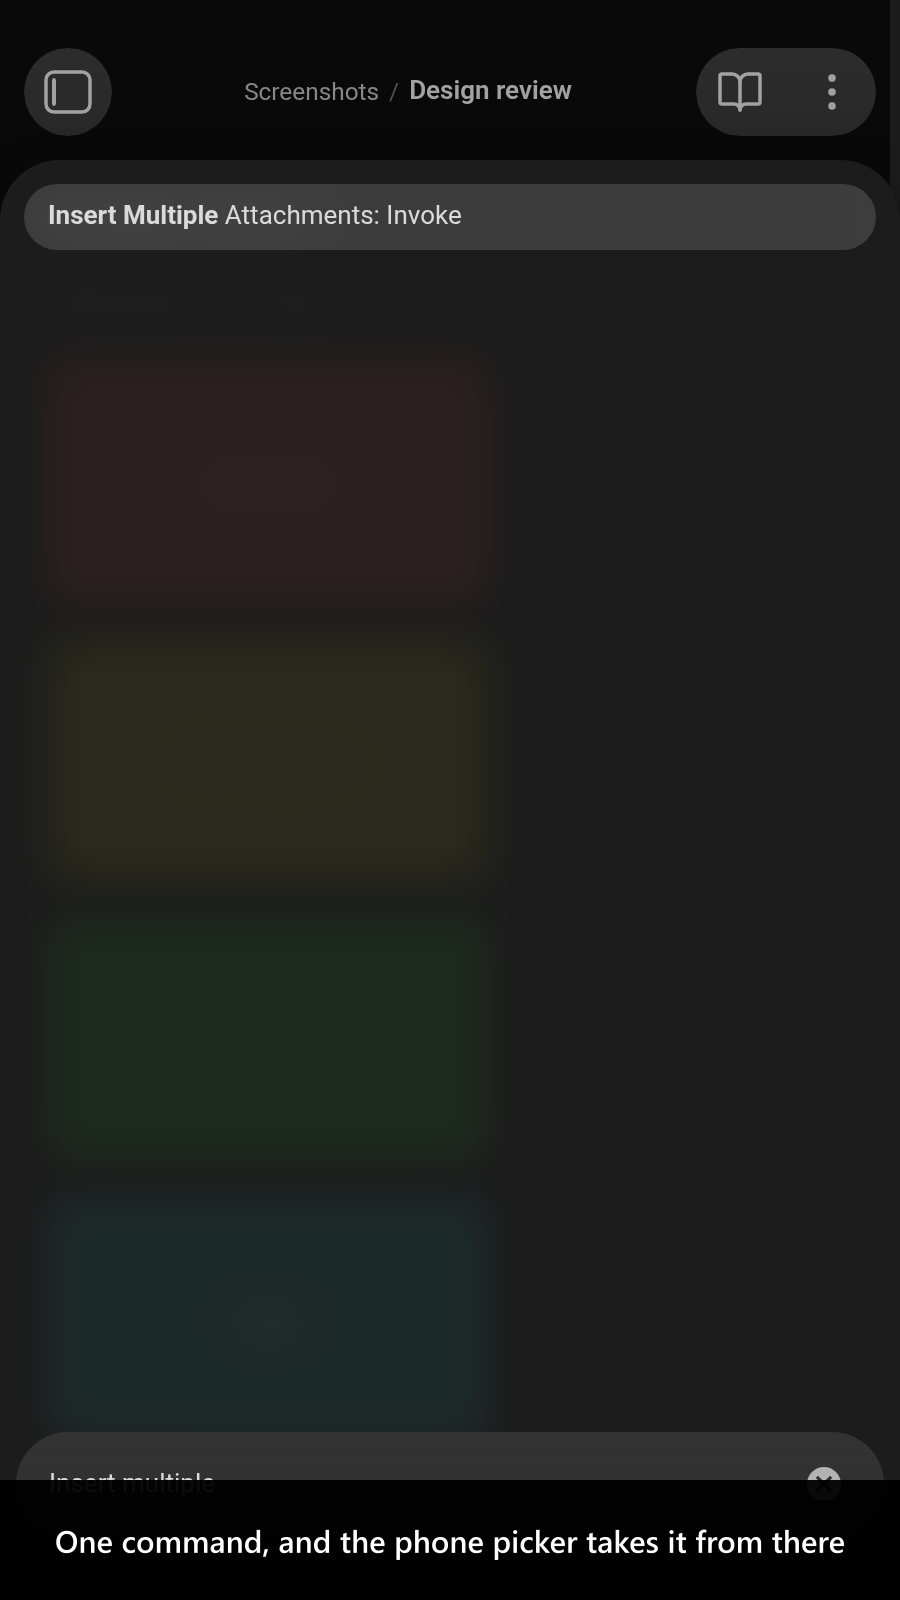
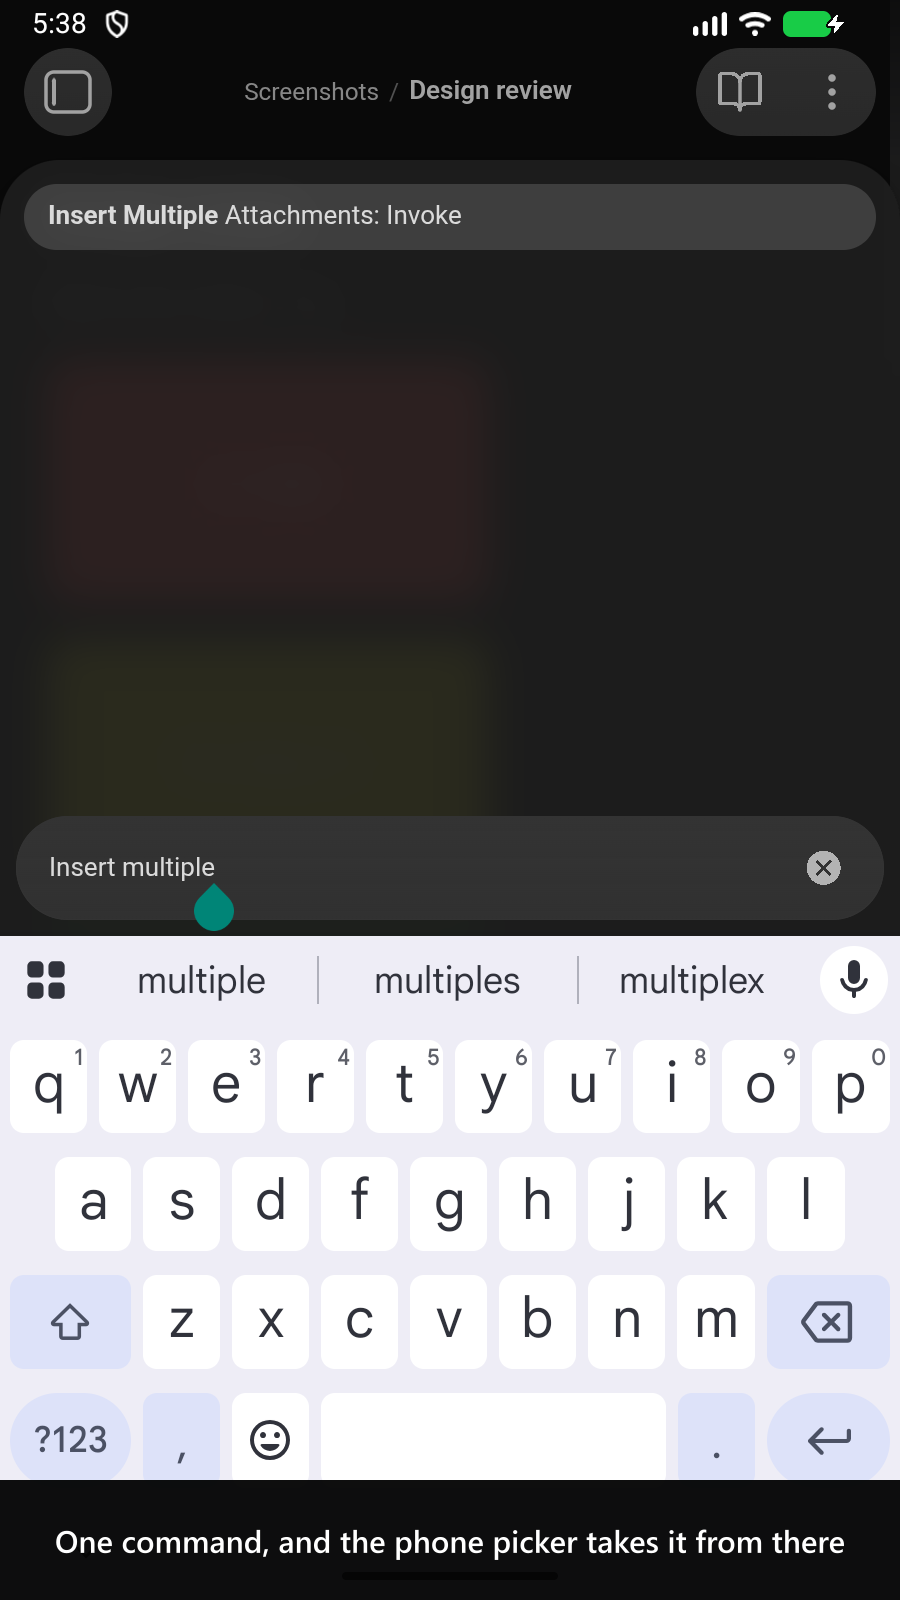
test(integration): take the palette frame with the soft keyboard up
The command-palette frame is a focused search field over nothing: the page
capture it used cannot show a keyboard, because it drives Appium in the
WebView context and the IME is a system window rather than part of the page.
So the field floated above a blurred backdrop covering most of the image,
and the caption band - drawn across the bottom of the frame - landed on the
field and cut the typed query in half.

That frame now comes from the device framebuffer with the keyboard raised
first, and the query reads in full. Both halves of raising it come from the
harness: the AVD is built with a hardware keyboard attached, so Android
suppresses the on-screen one until the device setting is flipped, and a
WebView will not ask for an IME on programmatic focus alone, so it takes a
real touch on the field. The setting is restored exactly afterwards,
including the case where it had never been written.

The swap is per SHOT, not per suite. The frame showing the saved attachments
has no focused field - a real phone would show no keyboard there either - so
it keeps the page capture and stays byte-reproducible: it re-captured to the
same bytes, and only the palette frame is modified here. That frame is the
one that gives up reproducibility, since the status-bar clock and the battery
indicator are now in it.

diff --git a/src/screenshots.android-capture.integration.test.ts b/src/screenshots.android-capture.integration.test.ts
@@ -33,10 +33,14 @@ import {
 import { join } from 'node:path';
 import process from 'node:process';
 import {
+  captureDeviceScreenshot,
   captureObsidianScreenshot,
   evalInObsidian,
   labelScreenshot,
-  readPngDimensions
+  raiseSoftKeyboard,
+  readPngDimensions,
+  resolveEmulatorDeviceId,
+  withSoftKeyboardEnabled
 } from 'obsidian-integration-testing';
 import { getTemporaryVault } from 'obsidian-integration-testing/vitest-global-setup-plugin';
 import {
@@ -82,7 +86,25 @@ const PICKED_FILE_NAMES = ['bar chart.svg', 'flow diagram.svg', 'wireframe.svg',
 
 const IMAGES_DIRECTORY = join(process.cwd(), 'images', 'screenshots');
 
+/**
+ * The command palette's own field, read off {@link openCommandPalette} rather than assumed: the palette
+ * is `.prompt input`, which is not the `.prompt-input` a suggester renders.
+ */
+const INPUT_SELECTOR = '.prompt input';
+
+/**
+ * The AVD the frames are taken on, matched by name.
+ *
+ * Never the first device `adb devices` lists: a physical phone is routinely plugged into the same
+ * machine, and the shared AVD the cross-platform suites drive is a different size.
+ */
+const AVD_NAME = 'obsidian_screenshots';
+
+let deviceId = '';
+
 beforeAll(async () => {
+  deviceId = await resolveEmulatorDeviceId({ avdName: AVD_NAME });
+
   const vault = getTemporaryVault();
 
   vault.populate({ [SUBJECT_NOTE_PATH]: '# Design review\n\nAttachments from today:\n\n' });
@@ -138,7 +160,7 @@ describe('mobile store screenshots', () => {
     // Name and the command name as two elements, so `textContent` runs them
     // Together without the separator the reader sees between them.
     expect(suggestions.some((suggestion) => suggestion.includes('Insert Multiple Attachments'))).toBe(true);
-    await shoot(2, 'One command, and the phone picker takes it from there');
+    await shootWithSoftKeyboard(2, 'One command, and the phone picker takes it from there');
   });
 });
 
@@ -329,8 +351,12 @@ async function pickAttachments(): Promise<number> {
 }
 
 /**
- * Captures the window, captions it, and writes it as
+ * Captures the PAGE, captions it, and writes it as
  * `images/screenshots/screenshot-mobile-<index>.png`.
+ *
+ * The page capture is byte-reproducible — no status bar, no clock — which is why the shot that shows the
+ * saved attachments keeps it. Only a shot that has to show the keyboard gives that up; see
+ * {@link shootWithSoftKeyboard}.
  *
  * @param index - The 1-based listing position.
  * @param caption - The caption drawn across the bottom of the frame.
@@ -338,6 +364,57 @@ async function pickAttachments(): Promise<number> {
 async function shoot(index: number, caption: string): Promise<void> {
   const captured = await captureObsidianScreenshot({ vaultPath: vaultPath() });
 
+  await writeFrame(index, caption, captured);
+}
+
+/**
+ * Raises the soft keyboard, captures the DEVICE, and writes the frame.
+ *
+ * For a shot whose subject is a focused field. `captureObsidianScreenshot` cannot show a keyboard: it
+ * drives Appium in the WebView context, so it photographs the page, and the IME is a system window that
+ * is not part of the page — which left the palette shot as a field over an empty band covering three
+ * quarters of the frame.
+ *
+ * Two things are needed and both belong to the harness rather than here: the AVD is built with a hardware
+ * keyboard attached, so Android suppresses the on-screen one until `withSoftKeyboardEnabled` lifts that
+ * and puts the setting back exactly; and a WebView will not ask for an IME on programmatic focus alone,
+ * so `raiseSoftKeyboard` lands a real touch on the field and proves geometrically that it lifted.
+ *
+ * The trade, which applies to this shot alone: a device capture is **not** byte-reproducible, because the
+ * status-bar clock and the battery indicator are in it.
+ *
+ * @param index - The 1-based listing position.
+ * @param caption - The caption drawn across the bottom of the frame.
+ */
+async function shootWithSoftKeyboard(index: number, caption: string): Promise<void> {
+  const captured = await withSoftKeyboardEnabled({
+    async callback() {
+      await raiseSoftKeyboard({
+        deviceId,
+        inputSelector: INPUT_SELECTOR,
+        vaultPath: vaultPath()
+      });
+
+      return await captureDeviceScreenshot({ deviceId });
+    },
+    deviceId
+  });
+
+  await writeFrame(index, caption, captured);
+}
+
+function vaultPath(): string {
+  return getTemporaryVault().path;
+}
+
+/**
+ * Asserts the frame is the store size, captions it, and writes it out.
+ *
+ * @param index - The 1-based listing position.
+ * @param caption - The caption drawn across the bottom of the frame.
+ * @param captured - The raw PNG, from either capture route.
+ */
+async function writeFrame(index: number, caption: string, captured: Uint8Array): Promise<void> {
   // The AVD is 900x1600, so the device frame IS the store size. Asserting it
   // Here is what keeps that true: run this against any other AVD and it fails
   // Loudly instead of quietly shipping an off-spec image.
@@ -350,8 +427,4 @@ async function shoot(index: number, caption: string): Promise<void> {
 
   mkdirSync(IMAGES_DIRECTORY, { recursive: true });
   writeFileSync(join(IMAGES_DIRECTORY, `screenshot-mobile-${String(index)}.png`), labeled);
-}
-
-function vaultPath(): string {
-  return getTemporaryVault().path;
 }

diff --git a/AGENTS.md b/AGENTS.md
@@ -39,3 +39,32 @@ Insert Multiple Attachments is an Obsidian plugin that allows inserting multiple
   - `command-handlers/invoke-command-handler.ts` — `InvokeCommandHandler extends EditorCommandHandler` (id `invoke`, icon `lucide-paperclip`); `executeEditor` instantiates `InsertAttachmentsControl`.
   - `styles/main.scss` — plugin styles; `styles/scss.d.ts` — SCSS module type declaration.
 - **`main` field** points to `src/main.ts` (Obsidian plugin source entry; built artifact is `dist/build/main.js`, not published to npm).
+
+## Testing notes
+
+### The mobile screenshot capture suite
+
+`npm run capture:screenshots` writes the two community-store mobile frames. The two frames are captured
+by **different routes on purpose**, and the difference is load-bearing:
+
+- **Frame 1 — the saved attachments — captures the PAGE** (`captureObsidianScreenshot`), which is
+  byte-reproducible: no status bar and no clock, so re-capturing it produces identical bytes and an
+  unchanged frame leaves no diff.
+- **Frame 2 — the command palette — captures the DEVICE** (`captureDeviceScreenshot`), with the soft
+  keyboard raised first. A page capture cannot show a keyboard: it drives Appium in the WebView context,
+  so it photographs the page, and the IME is a system window that is not part of the page. That left this
+  frame as a search field floating over an empty band across three quarters of the image — honest about
+  the DOM and misleading about the phone. **The cost is that frame 2 is no longer byte-reproducible**,
+  because the status-bar clock and the battery indicator are in it. Do not "fix" that churn by putting it
+  back on the page capture, and do not switch frame 1 over for consistency — a shot with no focused field
+  gets no keyboard on a real phone either, so raising one there would make the frame less true.
+- **Raising the keyboard takes TWO things**, which is why both belong to `obsidian-integration-testing`
+  rather than being copied in here. The AVD is built with a hardware keyboard attached, so Android
+  suppresses the on-screen one entirely — `withSoftKeyboardEnabled` lifts that for the duration of the
+  shot and restores the device exactly, including restoring a setting that had never been written, which
+  takes a delete rather than a write. And a WebView will not ask for an IME on programmatic focus alone:
+  `raiseSoftKeyboard` lands a real touch on the field and then proves geometrically that it lifted,
+  because nothing in the page reports the keyboard — `innerHeight`, `visualViewport` and the modal
+  container all keep their full height with it shown.
+- **The field it touches is read off the suite, not assumed.** The command palette renders
+  `.prompt input`, which is not the `.prompt-input` a suggester renders.
